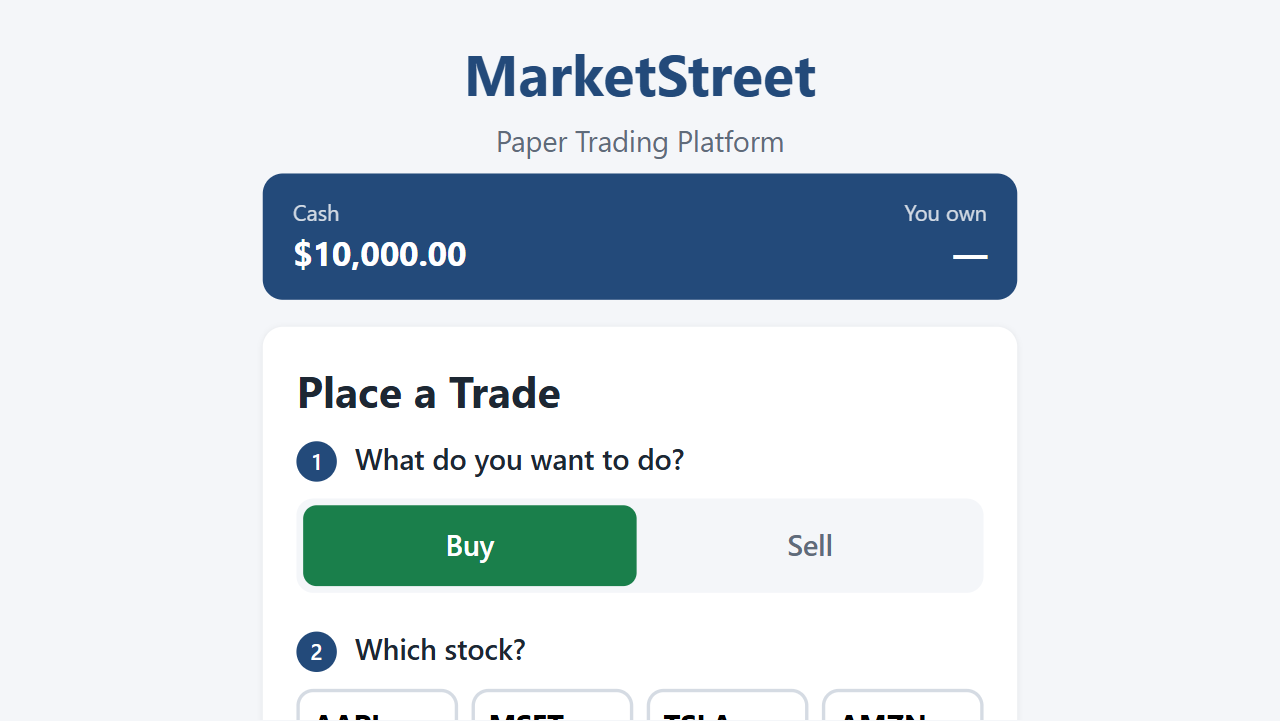
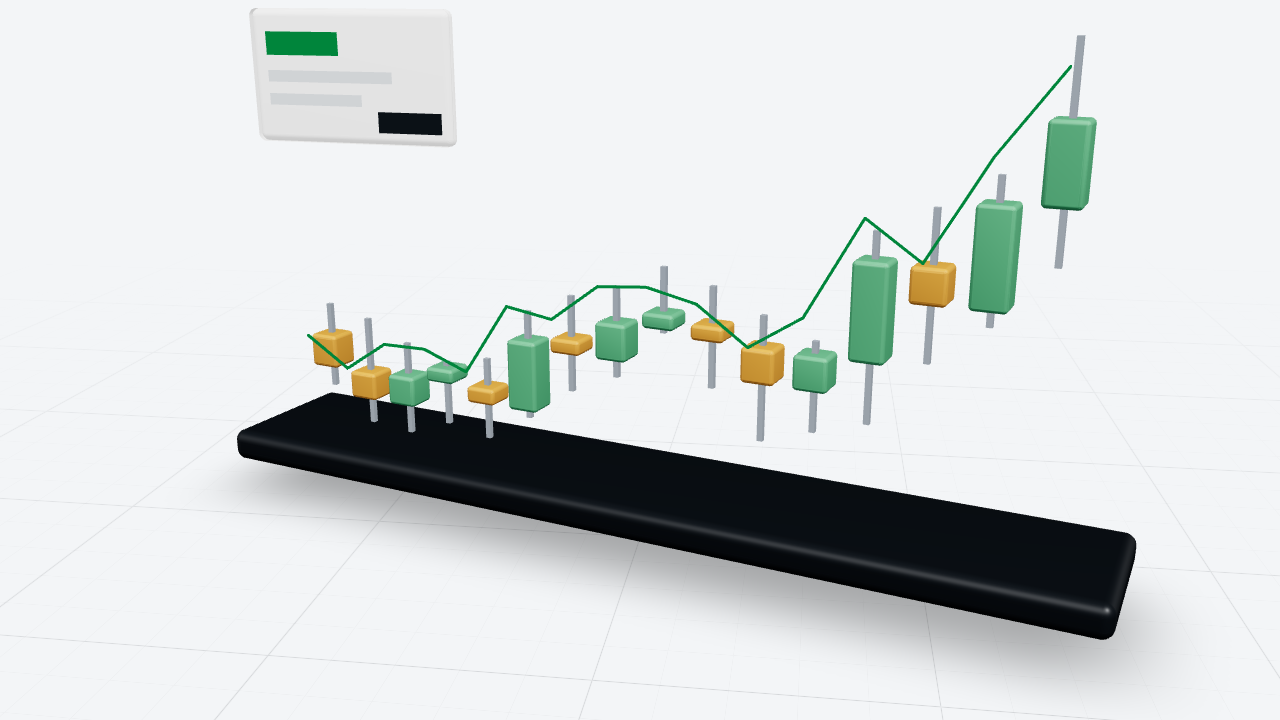
3D MarketStreet candlestick thumbnail; USI becomes a medical bill

diff --git a/src/components/CompanyItems.jsx b/src/components/CompanyItems.jsx
@@ -63,23 +63,71 @@ const Terminal = () => {
   );
 };
 
-// USI sells insurance: the umbrella.
-const Umbrella = () => (
-  <group>
-    <mesh position={[0, 0.95, 0]}>
-      <coneGeometry args={[0.62, 0.34, 8, 1, true]} />
-      <meshStandardMaterial color="#0B4EA2" roughness={0.45} side={THREE.DoubleSide} />
-    </mesh>
-    <mesh position={[0, 0.5, 0]}>
-      <cylinderGeometry args={[0.022, 0.022, 0.95, 12]} />
-      <meshStandardMaterial color={METAL} metalness={0.7} roughness={0.3} />
-    </mesh>
-    <mesh position={[0.09, 0.05, 0]} rotation={[0, 0, Math.PI]}>
-      <torusGeometry args={[0.09, 0.025, 10, 24, Math.PI]} />
-      <meshStandardMaterial color={DARK} roughness={0.5} />
-    </mesh>
-  </group>
-);
+// USI sells employee benefits and insurance: a medical bill, with its red cross, line items and amount due.
+const MedicalBill = () => {
+  const z = 0.026;
+  const rows = [
+    [0.3, 0.88], [0.42, 0.765], [0.24, 0.65], [0.36, 0.535], [0.3, 0.42],
+  ];
+  return (
+    <group>
+      <RoundedBox args={[0.74, 0.08, 0.3]} radius={0.03} smoothness={3} position={[0, 0.04, 0]}>
+        <meshStandardMaterial color="#d6dbe0" roughness={0.6} />
+      </RoundedBox>
+      <RoundedBox args={[0.78, 1.04, 0.04]} radius={0.025} smoothness={3} position={[0, 0.6, 0]}>
+        <meshStandardMaterial color="#ffffff" roughness={0.55} />
+      </RoundedBox>
+      <mesh position={[0, 1.03, z]}>
+        <planeGeometry args={[0.78, 0.22]} />
+        <meshBasicMaterial color="#0B4EA2" />
+      </mesh>
+      <mesh position={[-0.26, 1.03, z + 0.002]}>
+        <circleGeometry args={[0.075, 24]} />
+        <meshBasicMaterial color="#ffffff" />
+      </mesh>
+      <mesh position={[-0.26, 1.03, z + 0.004]}>
+        <planeGeometry args={[0.1, 0.032]} />
+        <meshBasicMaterial color="#D8362B" />
+      </mesh>
+      <mesh position={[-0.26, 1.03, z + 0.004]}>
+        <planeGeometry args={[0.032, 0.1]} />
+        <meshBasicMaterial color="#D8362B" />
+      </mesh>
+      <mesh position={[0.1, 1.06, z + 0.002]}>
+        <planeGeometry args={[0.34, 0.045]} />
+        <meshBasicMaterial color="#ffffff" />
+      </mesh>
+      <mesh position={[0.04, 1.0, z + 0.002]}>
+        <planeGeometry args={[0.22, 0.028]} />
+        <meshBasicMaterial color="#9DBBE6" />
+      </mesh>
+      {rows.map(([w, y]) => (
+        <group key={y}>
+          <mesh position={[-0.33 + w / 2, y, z]}>
+            <planeGeometry args={[w, 0.04]} />
+            <meshBasicMaterial color="#b4bcc5" />
+          </mesh>
+          <mesh position={[0.27, y, z]}>
+            <planeGeometry args={[0.13, 0.04]} />
+            <meshBasicMaterial color="#6b7680" />
+          </mesh>
+        </group>
+      ))}
+      <mesh position={[0, 0.31, z]}>
+        <planeGeometry args={[0.68, 0.012]} />
+        <meshBasicMaterial color="#1D2329" />
+      </mesh>
+      <mesh position={[-0.13, 0.19, z]}>
+        <planeGeometry args={[0.4, 0.07]} />
+        <meshBasicMaterial color="#1D2329" />
+      </mesh>
+      <mesh position={[0.22, 0.19, z]}>
+        <planeGeometry args={[0.26, 0.11]} />
+        <meshBasicMaterial color="#D8362B" />
+      </mesh>
+    </group>
+  );
+};
 
 // Carnegie Mellon: a graduation cap with a CMU-red tassel.
 const GradCap = () => (
@@ -165,6 +213,6 @@ const Drill = () => (
   </group>
 );
 
-export const ITEMS = { server: Server, terminal: Terminal, umbrella: Umbrella, gradcap: GradCap, cart: Cart, drill: Drill };
+export const ITEMS = { server: Server, terminal: Terminal, bill: MedicalBill, gradcap: GradCap, cart: Cart, drill: Drill };
 // How tall each model is, so the logo card can float just above it.
-export const ITEM_HEIGHT = { server: 1, terminal: 1, umbrella: 1.12, gradcap: 0.45, cart: 0.95, drill: 0.9 };
+export const ITEM_HEIGHT = { server: 1, terminal: 1, bill: 1.12, gradcap: 0.45, cart: 0.95, drill: 0.9 };

diff --git a/tools/thumbnails/main.jsx b/tools/thumbnails/main.jsx
@@ -272,12 +272,69 @@ const Bp = () => {
   );
 };
 
+// A candlestick chart for the paper-trading app, with a trend line and an order ticket floating over it.
+const MarketStreet = () => {
+  const candles = useMemo(() => {
+    const rand = seeded(11);
+    let price = 0.5;
+    return Array.from({ length: 16 }, (_, i) => {
+      const open = price;
+      price += (rand() - 0.38) * 0.55 + 0.06;
+      const close = Math.max(0.15, price);
+      const high = Math.max(open, close) + rand() * 0.25;
+      const low = Math.max(0.05, Math.min(open, close) - rand() * 0.25);
+      return { i, open, close, high, low };
+    });
+  }, []);
+  const gap = 0.46;
+  const H = 2.2; // price to world height
+  const base = Math.min(...candles.map((c) => c.low)) * H; // lowest wick rests on the slab
+  const x = (i) => (i - 7.5) * gap;
+  const trend = candles.map((c) => new THREE.Vector3(x(c.i), c.close * H - base + 0.45, 0.35));
+  return (
+    <group position={[0, -1.1, 0]} rotation={[0, -0.32, 0]}>
+      <RoundedBox args={[16 * gap + 1, 0.3, 1.5]} radius={0.1} smoothness={4} position={[0, -0.15, 0]}>
+        <meshStandardMaterial color={INK} roughness={0.35} metalness={0.1} />
+      </RoundedBox>
+      {candles.map((c) => {
+        const up = c.close >= c.open;
+        const lo = Math.min(c.open, c.close);
+        const hi = Math.max(c.open, c.close);
+        const body = Math.max(0.14, (hi - lo) * H);
+        const color = up ? GREEN_LIGHT : AMBER;
+        return (
+          <group key={c.i} position={[x(c.i), 0.02 - base, 0]}>
+            <mesh position={[0, ((c.high + c.low) / 2) * H + 0.05, 0]}>
+              <boxGeometry args={[0.05, (c.high - c.low) * H + 0.1, 0.05]} />
+              <meshStandardMaterial color="#aab4bf" roughness={0.5} />
+            </mesh>
+            <RoundedBox args={[0.3, body, 0.3]} radius={0.04} smoothness={3} position={[0, lo * H + body / 2 + 0.05, 0]}>
+              <meshStandardMaterial color={color} roughness={0.4} />
+            </RoundedBox>
+          </group>
+        );
+      })}
+      <Line points={trend} color={GREEN} lineWidth={3} />
+      <group position={[-2.5, 3.5, 0.6]} rotation={[0, 0.18, 0]}>
+        <RoundedBox args={[1.9, 1.15, 0.07]} radius={0.07} smoothness={4}>
+          <meshStandardMaterial color="#ffffff" emissive="#ffffff" emissiveIntensity={0.35} roughness={0.45} />
+        </RoundedBox>
+        <mesh position={[-0.45, 0.28, 0.045]}><planeGeometry args={[0.7, 0.2]} /><meshBasicMaterial color={GREEN} /></mesh>
+        <mesh position={[-0.2, 0.0, 0.045]}><planeGeometry args={[1.2, 0.1]} /><meshBasicMaterial color="#cfd5db" /></mesh>
+        <mesh position={[-0.35, -0.2, 0.045]}><planeGeometry args={[0.9, 0.1]} /><meshBasicMaterial color="#cfd5db" /></mesh>
+        <mesh position={[0.55, -0.38, 0.045]}><planeGeometry args={[0.6, 0.18]} /><meshBasicMaterial color={INK} /></mesh>
+      </group>
+    </group>
+  );
+};
+
 const SCENES = {
   interdomain: { Component: Interdomain, camera: [0, 1.6, 10.5] },
   'mnist-digit-recognition': { Component: Mnist, camera: [0, 6.2, 6.4] },
   'ai-efficiency-modeling': { Component: Bny, camera: [1.2, 3.4, 10.5] },
   'sales-analytics-dashboard': { Component: ToolAndMore, camera: [2.5, 3.4, 9] },
   'fed-oil-price-analysis': { Component: Bp, camera: [1.2, 2.4, 9.5] },
+  marketstreet: { Component: MarketStreet, camera: [1.5, 3.2, 10.5] },
 };
 
 const Ready = () => {

diff --git a/src/data/experience.js b/src/data/experience.js
@@ -53,7 +53,7 @@ export const experiences = [
     company: 'USI Insurance Services',
     shortName: 'USI Insurance',
     logo: 'logos/usi.png',
-    item: 'umbrella',
+    item: 'bill',
     summary: 'Analyzed $1M+ in healthcare claims to support renewals for 10+ employer clients.',
     role: 'Data Analytics Intern – Employee Benefits',
     period: 'June 2025 – July 2025',
